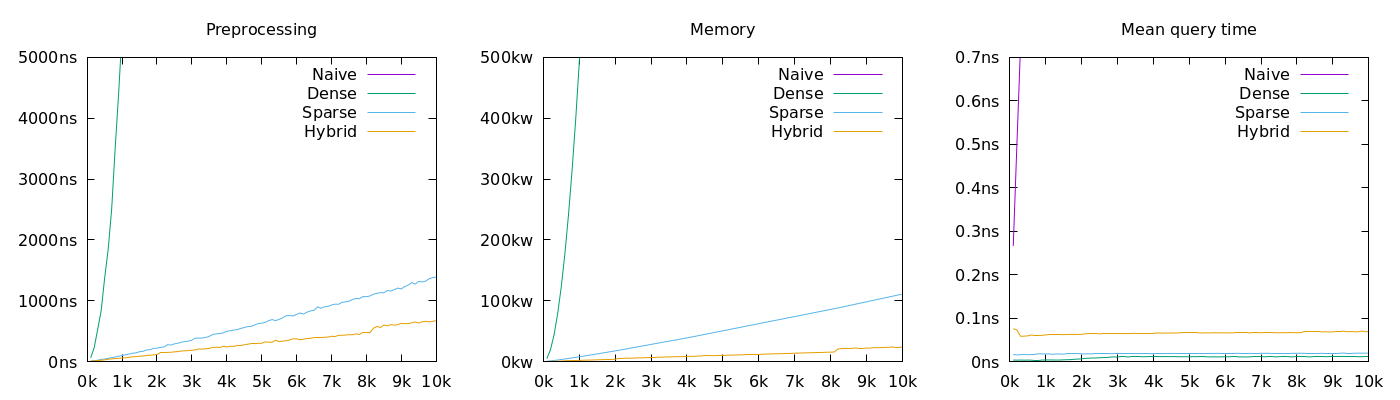
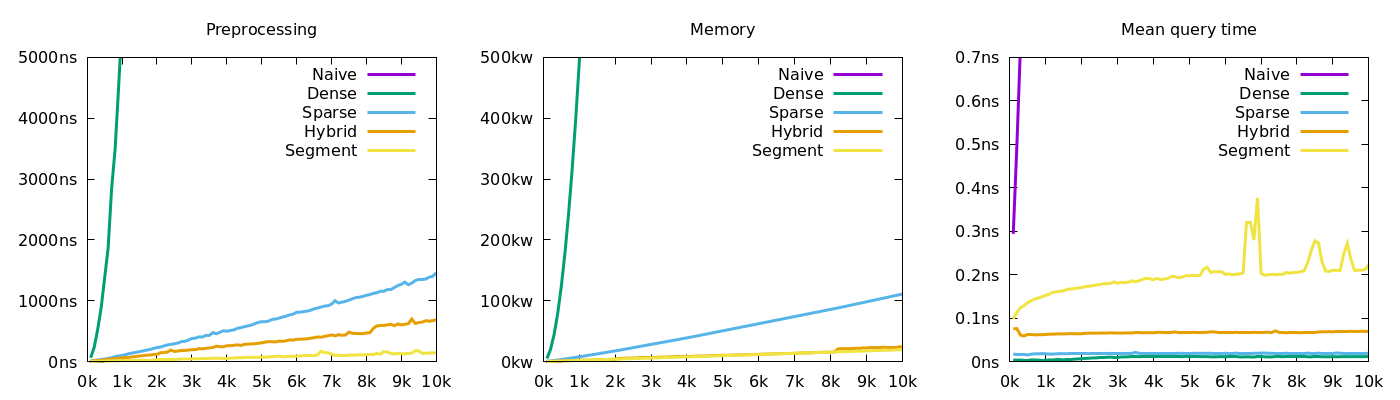
update rmq doc

diff --git a/rmq/rmq/Rmq/index.html b/rmq/rmq/Rmq/index.html
@@ -1,2 +1,2 @@
 <!DOCTYPE html>
-<html xmlns="http://www.w3.org/1999/xhtml"><head><title>Rmq (rmq.Rmq)</title><link rel="stylesheet" href="../../_odoc_support/odoc.css"/><meta charset="utf-8"/><meta name="generator" content="odoc 2.1.1"/><meta name="viewport" content="width=device-width,initial-scale=1.0"/><script src="../../_odoc_support/highlight.pack.js"></script><script>hljs.initHighlightingOnLoad();</script></head><body class="odoc"><nav class="odoc-nav"><a href="../index.html">Up</a> – <a href="../index.html">rmq</a> &#x00BB; Rmq</nav><header class="odoc-preamble"><h1>Module <code><span>Rmq</span></code></h1></header><div class="odoc-content"><div class="odoc-spec"><div class="spec type" id="type-min_array" class="anchored"><a href="#type-min_array" class="anchor"></a><code><span><span class="keyword">type</span> min_array</span><span> = </span><span>{</span></code><table><tr id="type-min_array.length" class="anchored"><td class="def record field"><a href="#type-min_array.length" class="anchor"></a><code><span>length : int;</span></code></td><td class="def-doc"><span class="comment-delim">(*</span><p>Number of elements in the array</p><span class="comment-delim">*)</span></td></tr><tr id="type-min_array.cmp" class="anchored"><td class="def record field"><a href="#type-min_array.cmp" class="anchor"></a><code><span>cmp : <span>int <span class="arrow">&#45;&gt;</span></span> <span>int <span class="arrow">&#45;&gt;</span></span> bool;</span></code></td><td class="def-doc"><span class="comment-delim">(*</span><p><code>cmp i j</code> returns <code>true</code> if the element at index <code>i</code> is less than or equal to the element at index <code>j</code> in the array</p><span class="comment-delim">*)</span></td></tr></table><code><span>}</span></code></div><div class="spec-doc"><p>An abstract representation of an array supporting the comparison of its elements.</p></div></div><div class="odoc-spec"><div class="spec value" id="val-of_array" class="anchored"><a href="#val-of_array" class="anchor"></a><code><span><span class="keyword">val</span> of_array : <span><span>( <span><span class="type-var">'a</span> <span class="arrow">&#45;&gt;</span></span> <span><span class="type-var">'a</span> <span class="arrow">&#45;&gt;</span></span> bool )</span> <span class="arrow">&#45;&gt;</span></span> <span><span><span class="type-var">'a</span> array</span> <span class="arrow">&#45;&gt;</span></span> <a href="#type-min_array">min_array</a></span></code></div><div class="spec-doc"><p><code>of_array cmp arr</code> returns an implementation of <code>min_array</code> using <code>cmp</code> to compare the elements of the array <code>arr</code>. The function <code>cmp x y</code> should return <code>true</code> if <code>x</code> is less than or equal to the value <code>y</code>.</p></div></div><div class="odoc-spec"><div class="spec module-type" id="module-type-S" class="anchored"><a href="#module-type-S" class="anchor"></a><code><span><span class="keyword">module</span> <span class="keyword">type</span> <a href="module-type-S/index.html">S</a></span><span> = <span class="keyword">sig</span> ... <span class="keyword">end</span></span></code></div></div><div class="odoc-spec"><div class="spec module" id="module-Naive" class="anchored"><a href="#module-Naive" class="anchor"></a><code><span><span class="keyword">module</span> <a href="Naive/index.html">Naive</a></span><span> : <a href="module-type-S/index.html">S</a> <span class="keyword">with</span> <span><span class="keyword">type</span> <a href="module-type-S/index.html#type-t">t</a> = unit</span></span></code></div><div class="spec-doc"><p><b>O(N)</b> query, <b>O(1)</b> preprocessing and memory.</p></div></div><div class="odoc-spec"><div class="spec module" id="module-Dense" class="anchored"><a href="#module-Dense" class="anchor"></a><code><span><span class="keyword">module</span> <a href="Dense/index.html">Dense</a></span><span> : <a href="module-type-S/index.html">S</a></span></code></div><div class="spec-doc"><p><b>O(1)</b> query, <b>O(N^2)</b> preprocessing and memory.</p></div></div><div class="odoc-spec"><div class="spec module" id="module-Sparse" class="anchored"><a href="#module-Sparse" class="anchor"></a><code><span><span class="keyword">module</span> <a href="Sparse/index.html">Sparse</a></span><span> : <a href="module-type-S/index.html">S</a></span></code></div><div class="spec-doc"><p><b>O(1)</b> query, <b>O(N logN)</b> preprocessing and memory.</p></div></div><div class="odoc-spec"><div class="spec module" id="module-Hybrid" class="anchored"><a href="#module-Hybrid" class="anchor"></a><code><span><span class="keyword">module</span> <a href="Hybrid/index.html">Hybrid</a></span><span> : <a href="module-type-S/index.html">S</a></span></code></div><div class="spec-doc"><p><b>O(1)</b> query, <b>O(N)</b> preprocessing and memory.</p></div></div></div></body></html>
+<html xmlns="http://www.w3.org/1999/xhtml"><head><title>Rmq (rmq.Rmq)</title><link rel="stylesheet" href="../../_odoc_support/odoc.css"/><meta charset="utf-8"/><meta name="generator" content="odoc 2.1.1"/><meta name="viewport" content="width=device-width,initial-scale=1.0"/><script src="../../_odoc_support/highlight.pack.js"></script><script>hljs.initHighlightingOnLoad();</script></head><body class="odoc"><nav class="odoc-nav"><a href="../index.html">Up</a> – <a href="../index.html">rmq</a> &#x00BB; Rmq</nav><header class="odoc-preamble"><h1>Module <code><span>Rmq</span></code></h1></header><div class="odoc-content"><div class="odoc-spec"><div class="spec type" id="type-min_array" class="anchored"><a href="#type-min_array" class="anchor"></a><code><span><span class="keyword">type</span> min_array</span><span> = </span><span>{</span></code><table><tr id="type-min_array.length" class="anchored"><td class="def record field"><a href="#type-min_array.length" class="anchor"></a><code><span>length : int;</span></code></td><td class="def-doc"><span class="comment-delim">(*</span><p>Number of elements in the array</p><span class="comment-delim">*)</span></td></tr><tr id="type-min_array.cmp" class="anchored"><td class="def record field"><a href="#type-min_array.cmp" class="anchor"></a><code><span>cmp : <span>int <span class="arrow">&#45;&gt;</span></span> <span>int <span class="arrow">&#45;&gt;</span></span> bool;</span></code></td><td class="def-doc"><span class="comment-delim">(*</span><p><code>cmp i j</code> returns <code>true</code> if the element at index <code>i</code> is less than or equal to the element at index <code>j</code> in the array</p><span class="comment-delim">*)</span></td></tr></table><code><span>}</span></code></div><div class="spec-doc"><p>An abstract representation of an array supporting the comparison of its elements.</p></div></div><div class="odoc-spec"><div class="spec value" id="val-of_array" class="anchored"><a href="#val-of_array" class="anchor"></a><code><span><span class="keyword">val</span> of_array : <span><span>( <span><span class="type-var">'a</span> <span class="arrow">&#45;&gt;</span></span> <span><span class="type-var">'a</span> <span class="arrow">&#45;&gt;</span></span> bool )</span> <span class="arrow">&#45;&gt;</span></span> <span><span><span class="type-var">'a</span> array</span> <span class="arrow">&#45;&gt;</span></span> <a href="#type-min_array">min_array</a></span></code></div><div class="spec-doc"><p><code>of_array cmp arr</code> returns an implementation of <code>min_array</code> using <code>cmp</code> to compare the elements of the array <code>arr</code>. The function <code>cmp x y</code> should return <code>true</code> if <code>x</code> is less than or equal to the value <code>y</code>.</p></div></div><div class="odoc-spec"><div class="spec module-type" id="module-type-S" class="anchored"><a href="#module-type-S" class="anchor"></a><code><span><span class="keyword">module</span> <span class="keyword">type</span> <a href="module-type-S/index.html">S</a></span><span> = <span class="keyword">sig</span> ... <span class="keyword">end</span></span></code></div></div><div class="odoc-spec"><div class="spec module" id="module-Naive" class="anchored"><a href="#module-Naive" class="anchor"></a><code><span><span class="keyword">module</span> <a href="Naive/index.html">Naive</a></span><span> : <a href="module-type-S/index.html">S</a> <span class="keyword">with</span> <span><span class="keyword">type</span> <a href="module-type-S/index.html#type-t">t</a> = unit</span></span></code></div><div class="spec-doc"><p><b>O(N)</b> query, <b>O(1)</b> preprocessing and memory.</p></div></div><div class="odoc-spec"><div class="spec module" id="module-Dense" class="anchored"><a href="#module-Dense" class="anchor"></a><code><span><span class="keyword">module</span> <a href="Dense/index.html">Dense</a></span><span> : <a href="module-type-S/index.html">S</a></span></code></div><div class="spec-doc"><p><b>O(1)</b> query, <b>O(N^2)</b> preprocessing and memory.</p></div></div><div class="odoc-spec"><div class="spec module" id="module-Sparse" class="anchored"><a href="#module-Sparse" class="anchor"></a><code><span><span class="keyword">module</span> <a href="Sparse/index.html">Sparse</a></span><span> : <a href="module-type-S/index.html">S</a></span></code></div><div class="spec-doc"><p><b>O(1)</b> query, <b>O(N logN)</b> preprocessing and memory.</p></div></div><div class="odoc-spec"><div class="spec module" id="module-Hybrid" class="anchored"><a href="#module-Hybrid" class="anchor"></a><code><span><span class="keyword">module</span> <a href="Hybrid/index.html">Hybrid</a></span><span> : <a href="module-type-S/index.html">S</a></span></code></div><div class="spec-doc"><p><b>O(1)</b> query, <b>O(N)</b> preprocessing and memory.</p></div></div><div class="odoc-spec"><div class="spec module" id="module-Segment" class="anchored"><a href="#module-Segment" class="anchor"></a><code><span><span class="keyword">module</span> <a href="Segment/index.html">Segment</a></span><span> : <a href="module-type-S/index.html">S</a></span></code></div><div class="spec-doc"><p><b>O(logN)</b> query, <b>O(N)</b> preprocessing and memory.</p></div></div></div></body></html>

diff --git a/rmq/rmq/Rmq/Naive/index.html b/rmq/rmq/Rmq/Naive/index.html
@@ -1,2 +1,2 @@
 <!DOCTYPE html>
-<html xmlns="http://www.w3.org/1999/xhtml"><head><title>Naive (rmq.Rmq.Naive)</title><link rel="stylesheet" href="../../../_odoc_support/odoc.css"/><meta charset="utf-8"/><meta name="generator" content="odoc 2.1.1"/><meta name="viewport" content="width=device-width,initial-scale=1.0"/><script src="../../../highlight.pack.js"></script><script>hljs.initHighlightingOnLoad();</script></head><body class="odoc"><nav class="odoc-nav"><a href="../index.html">Up</a> – <a href="../../index.html">rmq</a> &#x00BB; <a href="../index.html">Rmq</a> &#x00BB; Naive</nav><header class="odoc-preamble"><h1>Module <code><span>Rmq.Naive</span></code></h1><p><b>O(N)</b> query, <b>O(1)</b> preprocessing and memory.</p></header><div class="odoc-content"><div class="odoc-spec"><div class="spec type" id="type-t" class="anchored"><a href="#type-t" class="anchor"></a><code><span><span class="keyword">type</span> t</span><span> = unit</span></code></div><div class="spec-doc"><p>The type of a preprocessed array optimized for fast range-minimum queries.</p></div></div><div class="odoc-spec"><div class="spec value" id="val-preprocess" class="anchored"><a href="#val-preprocess" class="anchor"></a><code><span><span class="keyword">val</span> preprocess : <span><a href="../index.html#type-min_array">min_array</a> <span class="arrow">&#45;&gt;</span></span> <a href="#type-t">t</a></span></code></div><div class="spec-doc"><p>Preprocess the array argument to enable fast range-minimum queries.</p></div></div><div class="odoc-spec"><div class="spec value" id="val-query" class="anchored"><a href="#val-query" class="anchor"></a><code><span><span class="keyword">val</span> query : <span><a href="../index.html#type-min_array">min_array</a> <span class="arrow">&#45;&gt;</span></span> <span><a href="#type-t">t</a> <span class="arrow">&#45;&gt;</span></span> <span>i:int <span class="arrow">&#45;&gt;</span></span> <span>len:int <span class="arrow">&#45;&gt;</span></span> int</span></code></div><div class="spec-doc"><p><code>query min_array t ~i ~len</code> returns the index <code>j</code> in the range <code>i, i+len-1</code> of <code>min_array</code>, such that the element at position <code>j</code> is the minimum over that range (according to the comparison function provided by <code>min_array</code>). The preprocessed <code>t</code> argument must have been created from the same unmodified <code>min_array</code>, otherwise the results are unspecified.</p><ul class="at-tags"><li class="raises"><span class="at-tag">raises</span> <span class="value">[Invalid_argument]</span> <p>if the range <code>i,len</code> is outside the bounds of the array.</p></li></ul></div></div></div></body></html>
+<html xmlns="http://www.w3.org/1999/xhtml"><head><title>Naive (rmq.Rmq.Naive)</title><link rel="stylesheet" href="../../../_odoc_support/odoc.css"/><meta charset="utf-8"/><meta name="generator" content="odoc 2.1.1"/><meta name="viewport" content="width=device-width,initial-scale=1.0"/><script src="../../../highlight.pack.js"></script><script>hljs.initHighlightingOnLoad();</script></head><body class="odoc"><nav class="odoc-nav"><a href="../index.html">Up</a> – <a href="../../index.html">rmq</a> &#x00BB; <a href="../index.html">Rmq</a> &#x00BB; Naive</nav><header class="odoc-preamble"><h1>Module <code><span>Rmq.Naive</span></code></h1><p><b>O(N)</b> query, <b>O(1)</b> preprocessing and memory.</p></header><div class="odoc-content"><div class="odoc-spec"><div class="spec type" id="type-t" class="anchored"><a href="#type-t" class="anchor"></a><code><span><span class="keyword">type</span> t</span><span> = unit</span></code></div><div class="spec-doc"><p>The type of a preprocessed array optimized for fast range-minimum queries.</p></div></div><div class="odoc-spec"><div class="spec value" id="val-preprocess" class="anchored"><a href="#val-preprocess" class="anchor"></a><code><span><span class="keyword">val</span> preprocess : <span><a href="../index.html#type-min_array">min_array</a> <span class="arrow">&#45;&gt;</span></span> <a href="#type-t">t</a></span></code></div><div class="spec-doc"><p>Preprocess the array argument to enable fast range-minimum queries.</p></div></div><div class="odoc-spec"><div class="spec value" id="val-minimum_index" class="anchored"><a href="#val-minimum_index" class="anchor"></a><code><span><span class="keyword">val</span> minimum_index : <span><a href="../index.html#type-min_array">min_array</a> <span class="arrow">&#45;&gt;</span></span> <span><a href="#type-t">t</a> <span class="arrow">&#45;&gt;</span></span> <span>i:int <span class="arrow">&#45;&gt;</span></span> <span>len:int <span class="arrow">&#45;&gt;</span></span> int</span></code></div><div class="spec-doc"><p><code>minimum_index min_array t ~i ~len</code> returns the index <code>j</code> in the range <code>i, i+len-1</code> of <code>min_array</code>, such that the element at position <code>j</code> is the minimum over that range (according to the comparison function provided by <code>min_array</code>). The preprocessed <code>t</code> argument must have been created from the same unmodified <code>min_array</code>, otherwise the results are unspecified.</p><ul class="at-tags"><li class="raises"><span class="at-tag">raises</span> <span class="value">Invalid_argument</span> <p>if the range is outside the bounds of the array.</p></li></ul></div></div></div></body></html>

diff --git a/rmq/rmq/Rmq/Sparse/index.html b/rmq/rmq/Rmq/Sparse/index.html
@@ -1,2 +1,2 @@
 <!DOCTYPE html>
-<html xmlns="http://www.w3.org/1999/xhtml"><head><title>Sparse (rmq.Rmq.Sparse)</title><link rel="stylesheet" href="../../../_odoc_support/odoc.css"/><meta charset="utf-8"/><meta name="generator" content="odoc 2.1.1"/><meta name="viewport" content="width=device-width,initial-scale=1.0"/><script src="../../../highlight.pack.js"></script><script>hljs.initHighlightingOnLoad();</script></head><body class="odoc"><nav class="odoc-nav"><a href="../index.html">Up</a> – <a href="../../index.html">rmq</a> &#x00BB; <a href="../index.html">Rmq</a> &#x00BB; Sparse</nav><header class="odoc-preamble"><h1>Module <code><span>Rmq.Sparse</span></code></h1><p><b>O(1)</b> query, <b>O(N logN)</b> preprocessing and memory.</p></header><div class="odoc-content"><div class="odoc-spec"><div class="spec type" id="type-t" class="anchored"><a href="#type-t" class="anchor"></a><code><span><span class="keyword">type</span> t</span></code></div><div class="spec-doc"><p>The type of a preprocessed array optimized for fast range-minimum queries.</p></div></div><div class="odoc-spec"><div class="spec value" id="val-preprocess" class="anchored"><a href="#val-preprocess" class="anchor"></a><code><span><span class="keyword">val</span> preprocess : <span><a href="../index.html#type-min_array">min_array</a> <span class="arrow">&#45;&gt;</span></span> <a href="#type-t">t</a></span></code></div><div class="spec-doc"><p>Preprocess the array argument to enable fast range-minimum queries.</p></div></div><div class="odoc-spec"><div class="spec value" id="val-query" class="anchored"><a href="#val-query" class="anchor"></a><code><span><span class="keyword">val</span> query : <span><a href="../index.html#type-min_array">min_array</a> <span class="arrow">&#45;&gt;</span></span> <span><a href="#type-t">t</a> <span class="arrow">&#45;&gt;</span></span> <span>i:int <span class="arrow">&#45;&gt;</span></span> <span>len:int <span class="arrow">&#45;&gt;</span></span> int</span></code></div><div class="spec-doc"><p><code>query min_array t ~i ~len</code> returns the index <code>j</code> in the range <code>i, i+len-1</code> of <code>min_array</code>, such that the element at position <code>j</code> is the minimum over that range (according to the comparison function provided by <code>min_array</code>). The preprocessed <code>t</code> argument must have been created from the same unmodified <code>min_array</code>, otherwise the results are unspecified.</p><ul class="at-tags"><li class="raises"><span class="at-tag">raises</span> <span class="value">[Invalid_argument]</span> <p>if the range <code>i,len</code> is outside the bounds of the array.</p></li></ul></div></div></div></body></html>
+<html xmlns="http://www.w3.org/1999/xhtml"><head><title>Sparse (rmq.Rmq.Sparse)</title><link rel="stylesheet" href="../../../_odoc_support/odoc.css"/><meta charset="utf-8"/><meta name="generator" content="odoc 2.1.1"/><meta name="viewport" content="width=device-width,initial-scale=1.0"/><script src="../../../highlight.pack.js"></script><script>hljs.initHighlightingOnLoad();</script></head><body class="odoc"><nav class="odoc-nav"><a href="../index.html">Up</a> – <a href="../../index.html">rmq</a> &#x00BB; <a href="../index.html">Rmq</a> &#x00BB; Sparse</nav><header class="odoc-preamble"><h1>Module <code><span>Rmq.Sparse</span></code></h1><p><b>O(1)</b> query, <b>O(N logN)</b> preprocessing and memory.</p></header><div class="odoc-content"><div class="odoc-spec"><div class="spec type" id="type-t" class="anchored"><a href="#type-t" class="anchor"></a><code><span><span class="keyword">type</span> t</span></code></div><div class="spec-doc"><p>The type of a preprocessed array optimized for fast range-minimum queries.</p></div></div><div class="odoc-spec"><div class="spec value" id="val-preprocess" class="anchored"><a href="#val-preprocess" class="anchor"></a><code><span><span class="keyword">val</span> preprocess : <span><a href="../index.html#type-min_array">min_array</a> <span class="arrow">&#45;&gt;</span></span> <a href="#type-t">t</a></span></code></div><div class="spec-doc"><p>Preprocess the array argument to enable fast range-minimum queries.</p></div></div><div class="odoc-spec"><div class="spec value" id="val-minimum_index" class="anchored"><a href="#val-minimum_index" class="anchor"></a><code><span><span class="keyword">val</span> minimum_index : <span><a href="../index.html#type-min_array">min_array</a> <span class="arrow">&#45;&gt;</span></span> <span><a href="#type-t">t</a> <span class="arrow">&#45;&gt;</span></span> <span>i:int <span class="arrow">&#45;&gt;</span></span> <span>len:int <span class="arrow">&#45;&gt;</span></span> int</span></code></div><div class="spec-doc"><p><code>minimum_index min_array t ~i ~len</code> returns the index <code>j</code> in the range <code>i, i+len-1</code> of <code>min_array</code>, such that the element at position <code>j</code> is the minimum over that range (according to the comparison function provided by <code>min_array</code>). The preprocessed <code>t</code> argument must have been created from the same unmodified <code>min_array</code>, otherwise the results are unspecified.</p><ul class="at-tags"><li class="raises"><span class="at-tag">raises</span> <span class="value">Invalid_argument</span> <p>if the range is outside the bounds of the array.</p></li></ul></div></div></div></body></html>

diff --git a/rmq/rmq/Rmq/Hybrid/index.html b/rmq/rmq/Rmq/Hybrid/index.html
@@ -1,2 +1,2 @@
 <!DOCTYPE html>
-<html xmlns="http://www.w3.org/1999/xhtml"><head><title>Hybrid (rmq.Rmq.Hybrid)</title><link rel="stylesheet" href="../../../_odoc_support/odoc.css"/><meta charset="utf-8"/><meta name="generator" content="odoc 2.1.1"/><meta name="viewport" content="width=device-width,initial-scale=1.0"/><script src="../../../highlight.pack.js"></script><script>hljs.initHighlightingOnLoad();</script></head><body class="odoc"><nav class="odoc-nav"><a href="../index.html">Up</a> – <a href="../../index.html">rmq</a> &#x00BB; <a href="../index.html">Rmq</a> &#x00BB; Hybrid</nav><header class="odoc-preamble"><h1>Module <code><span>Rmq.Hybrid</span></code></h1><p><b>O(1)</b> query, <b>O(N)</b> preprocessing and memory.</p></header><div class="odoc-content"><div class="odoc-spec"><div class="spec type" id="type-t" class="anchored"><a href="#type-t" class="anchor"></a><code><span><span class="keyword">type</span> t</span></code></div><div class="spec-doc"><p>The type of a preprocessed array optimized for fast range-minimum queries.</p></div></div><div class="odoc-spec"><div class="spec value" id="val-preprocess" class="anchored"><a href="#val-preprocess" class="anchor"></a><code><span><span class="keyword">val</span> preprocess : <span><a href="../index.html#type-min_array">min_array</a> <span class="arrow">&#45;&gt;</span></span> <a href="#type-t">t</a></span></code></div><div class="spec-doc"><p>Preprocess the array argument to enable fast range-minimum queries.</p></div></div><div class="odoc-spec"><div class="spec value" id="val-query" class="anchored"><a href="#val-query" class="anchor"></a><code><span><span class="keyword">val</span> query : <span><a href="../index.html#type-min_array">min_array</a> <span class="arrow">&#45;&gt;</span></span> <span><a href="#type-t">t</a> <span class="arrow">&#45;&gt;</span></span> <span>i:int <span class="arrow">&#45;&gt;</span></span> <span>len:int <span class="arrow">&#45;&gt;</span></span> int</span></code></div><div class="spec-doc"><p><code>query min_array t ~i ~len</code> returns the index <code>j</code> in the range <code>i, i+len-1</code> of <code>min_array</code>, such that the element at position <code>j</code> is the minimum over that range (according to the comparison function provided by <code>min_array</code>). The preprocessed <code>t</code> argument must have been created from the same unmodified <code>min_array</code>, otherwise the results are unspecified.</p><ul class="at-tags"><li class="raises"><span class="at-tag">raises</span> <span class="value">[Invalid_argument]</span> <p>if the range <code>i,len</code> is outside the bounds of the array.</p></li></ul></div></div></div></body></html>
+<html xmlns="http://www.w3.org/1999/xhtml"><head><title>Hybrid (rmq.Rmq.Hybrid)</title><link rel="stylesheet" href="../../../_odoc_support/odoc.css"/><meta charset="utf-8"/><meta name="generator" content="odoc 2.1.1"/><meta name="viewport" content="width=device-width,initial-scale=1.0"/><script src="../../../highlight.pack.js"></script><script>hljs.initHighlightingOnLoad();</script></head><body class="odoc"><nav class="odoc-nav"><a href="../index.html">Up</a> – <a href="../../index.html">rmq</a> &#x00BB; <a href="../index.html">Rmq</a> &#x00BB; Hybrid</nav><header class="odoc-preamble"><h1>Module <code><span>Rmq.Hybrid</span></code></h1><p><b>O(1)</b> query, <b>O(N)</b> preprocessing and memory.</p></header><div class="odoc-content"><div class="odoc-spec"><div class="spec type" id="type-t" class="anchored"><a href="#type-t" class="anchor"></a><code><span><span class="keyword">type</span> t</span></code></div><div class="spec-doc"><p>The type of a preprocessed array optimized for fast range-minimum queries.</p></div></div><div class="odoc-spec"><div class="spec value" id="val-preprocess" class="anchored"><a href="#val-preprocess" class="anchor"></a><code><span><span class="keyword">val</span> preprocess : <span><a href="../index.html#type-min_array">min_array</a> <span class="arrow">&#45;&gt;</span></span> <a href="#type-t">t</a></span></code></div><div class="spec-doc"><p>Preprocess the array argument to enable fast range-minimum queries.</p></div></div><div class="odoc-spec"><div class="spec value" id="val-minimum_index" class="anchored"><a href="#val-minimum_index" class="anchor"></a><code><span><span class="keyword">val</span> minimum_index : <span><a href="../index.html#type-min_array">min_array</a> <span class="arrow">&#45;&gt;</span></span> <span><a href="#type-t">t</a> <span class="arrow">&#45;&gt;</span></span> <span>i:int <span class="arrow">&#45;&gt;</span></span> <span>len:int <span class="arrow">&#45;&gt;</span></span> int</span></code></div><div class="spec-doc"><p><code>minimum_index min_array t ~i ~len</code> returns the index <code>j</code> in the range <code>i, i+len-1</code> of <code>min_array</code>, such that the element at position <code>j</code> is the minimum over that range (according to the comparison function provided by <code>min_array</code>). The preprocessed <code>t</code> argument must have been created from the same unmodified <code>min_array</code>, otherwise the results are unspecified.</p><ul class="at-tags"><li class="raises"><span class="at-tag">raises</span> <span class="value">Invalid_argument</span> <p>if the range is outside the bounds of the array.</p></li></ul></div></div></div></body></html>

diff --git a/rmq/rmq/Rmq/Dense/index.html b/rmq/rmq/Rmq/Dense/index.html
@@ -1,2 +1,2 @@
 <!DOCTYPE html>
-<html xmlns="http://www.w3.org/1999/xhtml"><head><title>Dense (rmq.Rmq.Dense)</title><link rel="stylesheet" href="../../../_odoc_support/odoc.css"/><meta charset="utf-8"/><meta name="generator" content="odoc 2.1.1"/><meta name="viewport" content="width=device-width,initial-scale=1.0"/><script src="../../../highlight.pack.js"></script><script>hljs.initHighlightingOnLoad();</script></head><body class="odoc"><nav class="odoc-nav"><a href="../index.html">Up</a> – <a href="../../index.html">rmq</a> &#x00BB; <a href="../index.html">Rmq</a> &#x00BB; Dense</nav><header class="odoc-preamble"><h1>Module <code><span>Rmq.Dense</span></code></h1><p><b>O(1)</b> query, <b>O(N^2)</b> preprocessing and memory.</p></header><div class="odoc-content"><div class="odoc-spec"><div class="spec type" id="type-t" class="anchored"><a href="#type-t" class="anchor"></a><code><span><span class="keyword">type</span> t</span></code></div><div class="spec-doc"><p>The type of a preprocessed array optimized for fast range-minimum queries.</p></div></div><div class="odoc-spec"><div class="spec value" id="val-preprocess" class="anchored"><a href="#val-preprocess" class="anchor"></a><code><span><span class="keyword">val</span> preprocess : <span><a href="../index.html#type-min_array">min_array</a> <span class="arrow">&#45;&gt;</span></span> <a href="#type-t">t</a></span></code></div><div class="spec-doc"><p>Preprocess the array argument to enable fast range-minimum queries.</p></div></div><div class="odoc-spec"><div class="spec value" id="val-query" class="anchored"><a href="#val-query" class="anchor"></a><code><span><span class="keyword">val</span> query : <span><a href="../index.html#type-min_array">min_array</a> <span class="arrow">&#45;&gt;</span></span> <span><a href="#type-t">t</a> <span class="arrow">&#45;&gt;</span></span> <span>i:int <span class="arrow">&#45;&gt;</span></span> <span>len:int <span class="arrow">&#45;&gt;</span></span> int</span></code></div><div class="spec-doc"><p><code>query min_array t ~i ~len</code> returns the index <code>j</code> in the range <code>i, i+len-1</code> of <code>min_array</code>, such that the element at position <code>j</code> is the minimum over that range (according to the comparison function provided by <code>min_array</code>). The preprocessed <code>t</code> argument must have been created from the same unmodified <code>min_array</code>, otherwise the results are unspecified.</p><ul class="at-tags"><li class="raises"><span class="at-tag">raises</span> <span class="value">[Invalid_argument]</span> <p>if the range <code>i,len</code> is outside the bounds of the array.</p></li></ul></div></div></div></body></html>
+<html xmlns="http://www.w3.org/1999/xhtml"><head><title>Dense (rmq.Rmq.Dense)</title><link rel="stylesheet" href="../../../_odoc_support/odoc.css"/><meta charset="utf-8"/><meta name="generator" content="odoc 2.1.1"/><meta name="viewport" content="width=device-width,initial-scale=1.0"/><script src="../../../highlight.pack.js"></script><script>hljs.initHighlightingOnLoad();</script></head><body class="odoc"><nav class="odoc-nav"><a href="../index.html">Up</a> – <a href="../../index.html">rmq</a> &#x00BB; <a href="../index.html">Rmq</a> &#x00BB; Dense</nav><header class="odoc-preamble"><h1>Module <code><span>Rmq.Dense</span></code></h1><p><b>O(1)</b> query, <b>O(N^2)</b> preprocessing and memory.</p></header><div class="odoc-content"><div class="odoc-spec"><div class="spec type" id="type-t" class="anchored"><a href="#type-t" class="anchor"></a><code><span><span class="keyword">type</span> t</span></code></div><div class="spec-doc"><p>The type of a preprocessed array optimized for fast range-minimum queries.</p></div></div><div class="odoc-spec"><div class="spec value" id="val-preprocess" class="anchored"><a href="#val-preprocess" class="anchor"></a><code><span><span class="keyword">val</span> preprocess : <span><a href="../index.html#type-min_array">min_array</a> <span class="arrow">&#45;&gt;</span></span> <a href="#type-t">t</a></span></code></div><div class="spec-doc"><p>Preprocess the array argument to enable fast range-minimum queries.</p></div></div><div class="odoc-spec"><div class="spec value" id="val-minimum_index" class="anchored"><a href="#val-minimum_index" class="anchor"></a><code><span><span class="keyword">val</span> minimum_index : <span><a href="../index.html#type-min_array">min_array</a> <span class="arrow">&#45;&gt;</span></span> <span><a href="#type-t">t</a> <span class="arrow">&#45;&gt;</span></span> <span>i:int <span class="arrow">&#45;&gt;</span></span> <span>len:int <span class="arrow">&#45;&gt;</span></span> int</span></code></div><div class="spec-doc"><p><code>minimum_index min_array t ~i ~len</code> returns the index <code>j</code> in the range <code>i, i+len-1</code> of <code>min_array</code>, such that the element at position <code>j</code> is the minimum over that range (according to the comparison function provided by <code>min_array</code>). The preprocessed <code>t</code> argument must have been created from the same unmodified <code>min_array</code>, otherwise the results are unspecified.</p><ul class="at-tags"><li class="raises"><span class="at-tag">raises</span> <span class="value">Invalid_argument</span> <p>if the range is outside the bounds of the array.</p></li></ul></div></div></div></body></html>

diff --git a/rmq/rmq/Rmq/module-type-S/index.html b/rmq/rmq/Rmq/module-type-S/index.html
@@ -1,2 +1,2 @@
 <!DOCTYPE html>
-<html xmlns="http://www.w3.org/1999/xhtml"><head><title>S (rmq.Rmq.S)</title><link rel="stylesheet" href="../../../_odoc_support/odoc.css"/><meta charset="utf-8"/><meta name="generator" content="odoc 2.1.1"/><meta name="viewport" content="width=device-width,initial-scale=1.0"/><script src="../../../highlight.pack.js"></script><script>hljs.initHighlightingOnLoad();</script></head><body class="odoc"><nav class="odoc-nav"><a href="../index.html">Up</a> – <a href="../../index.html">rmq</a> &#x00BB; <a href="../index.html">Rmq</a> &#x00BB; S</nav><header class="odoc-preamble"><h1>Module type <code><span>Rmq.S</span></code></h1></header><div class="odoc-content"><div class="odoc-spec"><div class="spec type" id="type-t" class="anchored"><a href="#type-t" class="anchor"></a><code><span><span class="keyword">type</span> t</span></code></div><div class="spec-doc"><p>The type of a preprocessed array optimized for fast range-minimum queries.</p></div></div><div class="odoc-spec"><div class="spec value" id="val-preprocess" class="anchored"><a href="#val-preprocess" class="anchor"></a><code><span><span class="keyword">val</span> preprocess : <span><a href="../index.html#type-min_array">min_array</a> <span class="arrow">&#45;&gt;</span></span> <a href="#type-t">t</a></span></code></div><div class="spec-doc"><p>Preprocess the array argument to enable fast range-minimum queries.</p></div></div><div class="odoc-spec"><div class="spec value" id="val-query" class="anchored"><a href="#val-query" class="anchor"></a><code><span><span class="keyword">val</span> query : <span><a href="../index.html#type-min_array">min_array</a> <span class="arrow">&#45;&gt;</span></span> <span><a href="#type-t">t</a> <span class="arrow">&#45;&gt;</span></span> <span>i:int <span class="arrow">&#45;&gt;</span></span> <span>len:int <span class="arrow">&#45;&gt;</span></span> int</span></code></div><div class="spec-doc"><p><code>query min_array t ~i ~len</code> returns the index <code>j</code> in the range <code>i, i+len-1</code> of <code>min_array</code>, such that the element at position <code>j</code> is the minimum over that range (according to the comparison function provided by <code>min_array</code>). The preprocessed <code>t</code> argument must have been created from the same unmodified <code>min_array</code>, otherwise the results are unspecified.</p><ul class="at-tags"><li class="raises"><span class="at-tag">raises</span> <span class="value">[Invalid_argument]</span> <p>if the range <code>i,len</code> is outside the bounds of the array.</p></li></ul></div></div></div></body></html>
+<html xmlns="http://www.w3.org/1999/xhtml"><head><title>S (rmq.Rmq.S)</title><link rel="stylesheet" href="../../../_odoc_support/odoc.css"/><meta charset="utf-8"/><meta name="generator" content="odoc 2.1.1"/><meta name="viewport" content="width=device-width,initial-scale=1.0"/><script src="../../../highlight.pack.js"></script><script>hljs.initHighlightingOnLoad();</script></head><body class="odoc"><nav class="odoc-nav"><a href="../index.html">Up</a> – <a href="../../index.html">rmq</a> &#x00BB; <a href="../index.html">Rmq</a> &#x00BB; S</nav><header class="odoc-preamble"><h1>Module type <code><span>Rmq.S</span></code></h1></header><div class="odoc-content"><div class="odoc-spec"><div class="spec type" id="type-t" class="anchored"><a href="#type-t" class="anchor"></a><code><span><span class="keyword">type</span> t</span></code></div><div class="spec-doc"><p>The type of a preprocessed array optimized for fast range-minimum queries.</p></div></div><div class="odoc-spec"><div class="spec value" id="val-preprocess" class="anchored"><a href="#val-preprocess" class="anchor"></a><code><span><span class="keyword">val</span> preprocess : <span><a href="../index.html#type-min_array">min_array</a> <span class="arrow">&#45;&gt;</span></span> <a href="#type-t">t</a></span></code></div><div class="spec-doc"><p>Preprocess the array argument to enable fast range-minimum queries.</p></div></div><div class="odoc-spec"><div class="spec value" id="val-minimum_index" class="anchored"><a href="#val-minimum_index" class="anchor"></a><code><span><span class="keyword">val</span> minimum_index : <span><a href="../index.html#type-min_array">min_array</a> <span class="arrow">&#45;&gt;</span></span> <span><a href="#type-t">t</a> <span class="arrow">&#45;&gt;</span></span> <span>i:int <span class="arrow">&#45;&gt;</span></span> <span>len:int <span class="arrow">&#45;&gt;</span></span> int</span></code></div><div class="spec-doc"><p><code>minimum_index min_array t ~i ~len</code> returns the index <code>j</code> in the range <code>i, i+len-1</code> of <code>min_array</code>, such that the element at position <code>j</code> is the minimum over that range (according to the comparison function provided by <code>min_array</code>). The preprocessed <code>t</code> argument must have been created from the same unmodified <code>min_array</code>, otherwise the results are unspecified.</p><ul class="at-tags"><li class="raises"><span class="at-tag">raises</span> <span class="value">Invalid_argument</span> <p>if the range is outside the bounds of the array.</p></li></ul></div></div></div></body></html>

diff --git a/rmq/rmq/Rmq/Segment/index.html b/rmq/rmq/Rmq/Segment/index.html
@@ -1,0 +1,2 @@
+<!DOCTYPE html>
+<html xmlns="http://www.w3.org/1999/xhtml"><head><title>Segment (rmq.Rmq.Segment)</title><link rel="stylesheet" href="../../../_odoc_support/odoc.css"/><meta charset="utf-8"/><meta name="generator" content="odoc 2.1.1"/><meta name="viewport" content="width=device-width,initial-scale=1.0"/><script src="../../../highlight.pack.js"></script><script>hljs.initHighlightingOnLoad();</script></head><body class="odoc"><nav class="odoc-nav"><a href="../index.html">Up</a> – <a href="../../index.html">rmq</a> &#x00BB; <a href="../index.html">Rmq</a> &#x00BB; Segment</nav><header class="odoc-preamble"><h1>Module <code><span>Rmq.Segment</span></code></h1><p><b>O(logN)</b> query, <b>O(N)</b> preprocessing and memory.</p></header><div class="odoc-content"><div class="odoc-spec"><div class="spec type" id="type-t" class="anchored"><a href="#type-t" class="anchor"></a><code><span><span class="keyword">type</span> t</span></code></div><div class="spec-doc"><p>The type of a preprocessed array optimized for fast range-minimum queries.</p></div></div><div class="odoc-spec"><div class="spec value" id="val-preprocess" class="anchored"><a href="#val-preprocess" class="anchor"></a><code><span><span class="keyword">val</span> preprocess : <span><a href="../index.html#type-min_array">min_array</a> <span class="arrow">&#45;&gt;</span></span> <a href="#type-t">t</a></span></code></div><div class="spec-doc"><p>Preprocess the array argument to enable fast range-minimum queries.</p></div></div><div class="odoc-spec"><div class="spec value" id="val-minimum_index" class="anchored"><a href="#val-minimum_index" class="anchor"></a><code><span><span class="keyword">val</span> minimum_index : <span><a href="../index.html#type-min_array">min_array</a> <span class="arrow">&#45;&gt;</span></span> <span><a href="#type-t">t</a> <span class="arrow">&#45;&gt;</span></span> <span>i:int <span class="arrow">&#45;&gt;</span></span> <span>len:int <span class="arrow">&#45;&gt;</span></span> int</span></code></div><div class="spec-doc"><p><code>minimum_index min_array t ~i ~len</code> returns the index <code>j</code> in the range <code>i, i+len-1</code> of <code>min_array</code>, such that the element at position <code>j</code> is the minimum over that range (according to the comparison function provided by <code>min_array</code>). The preprocessed <code>t</code> argument must have been created from the same unmodified <code>min_array</code>, otherwise the results are unspecified.</p><ul class="at-tags"><li class="raises"><span class="at-tag">raises</span> <span class="value">Invalid_argument</span> <p>if the range is outside the bounds of the array.</p></li></ul></div></div></div></body></html>
